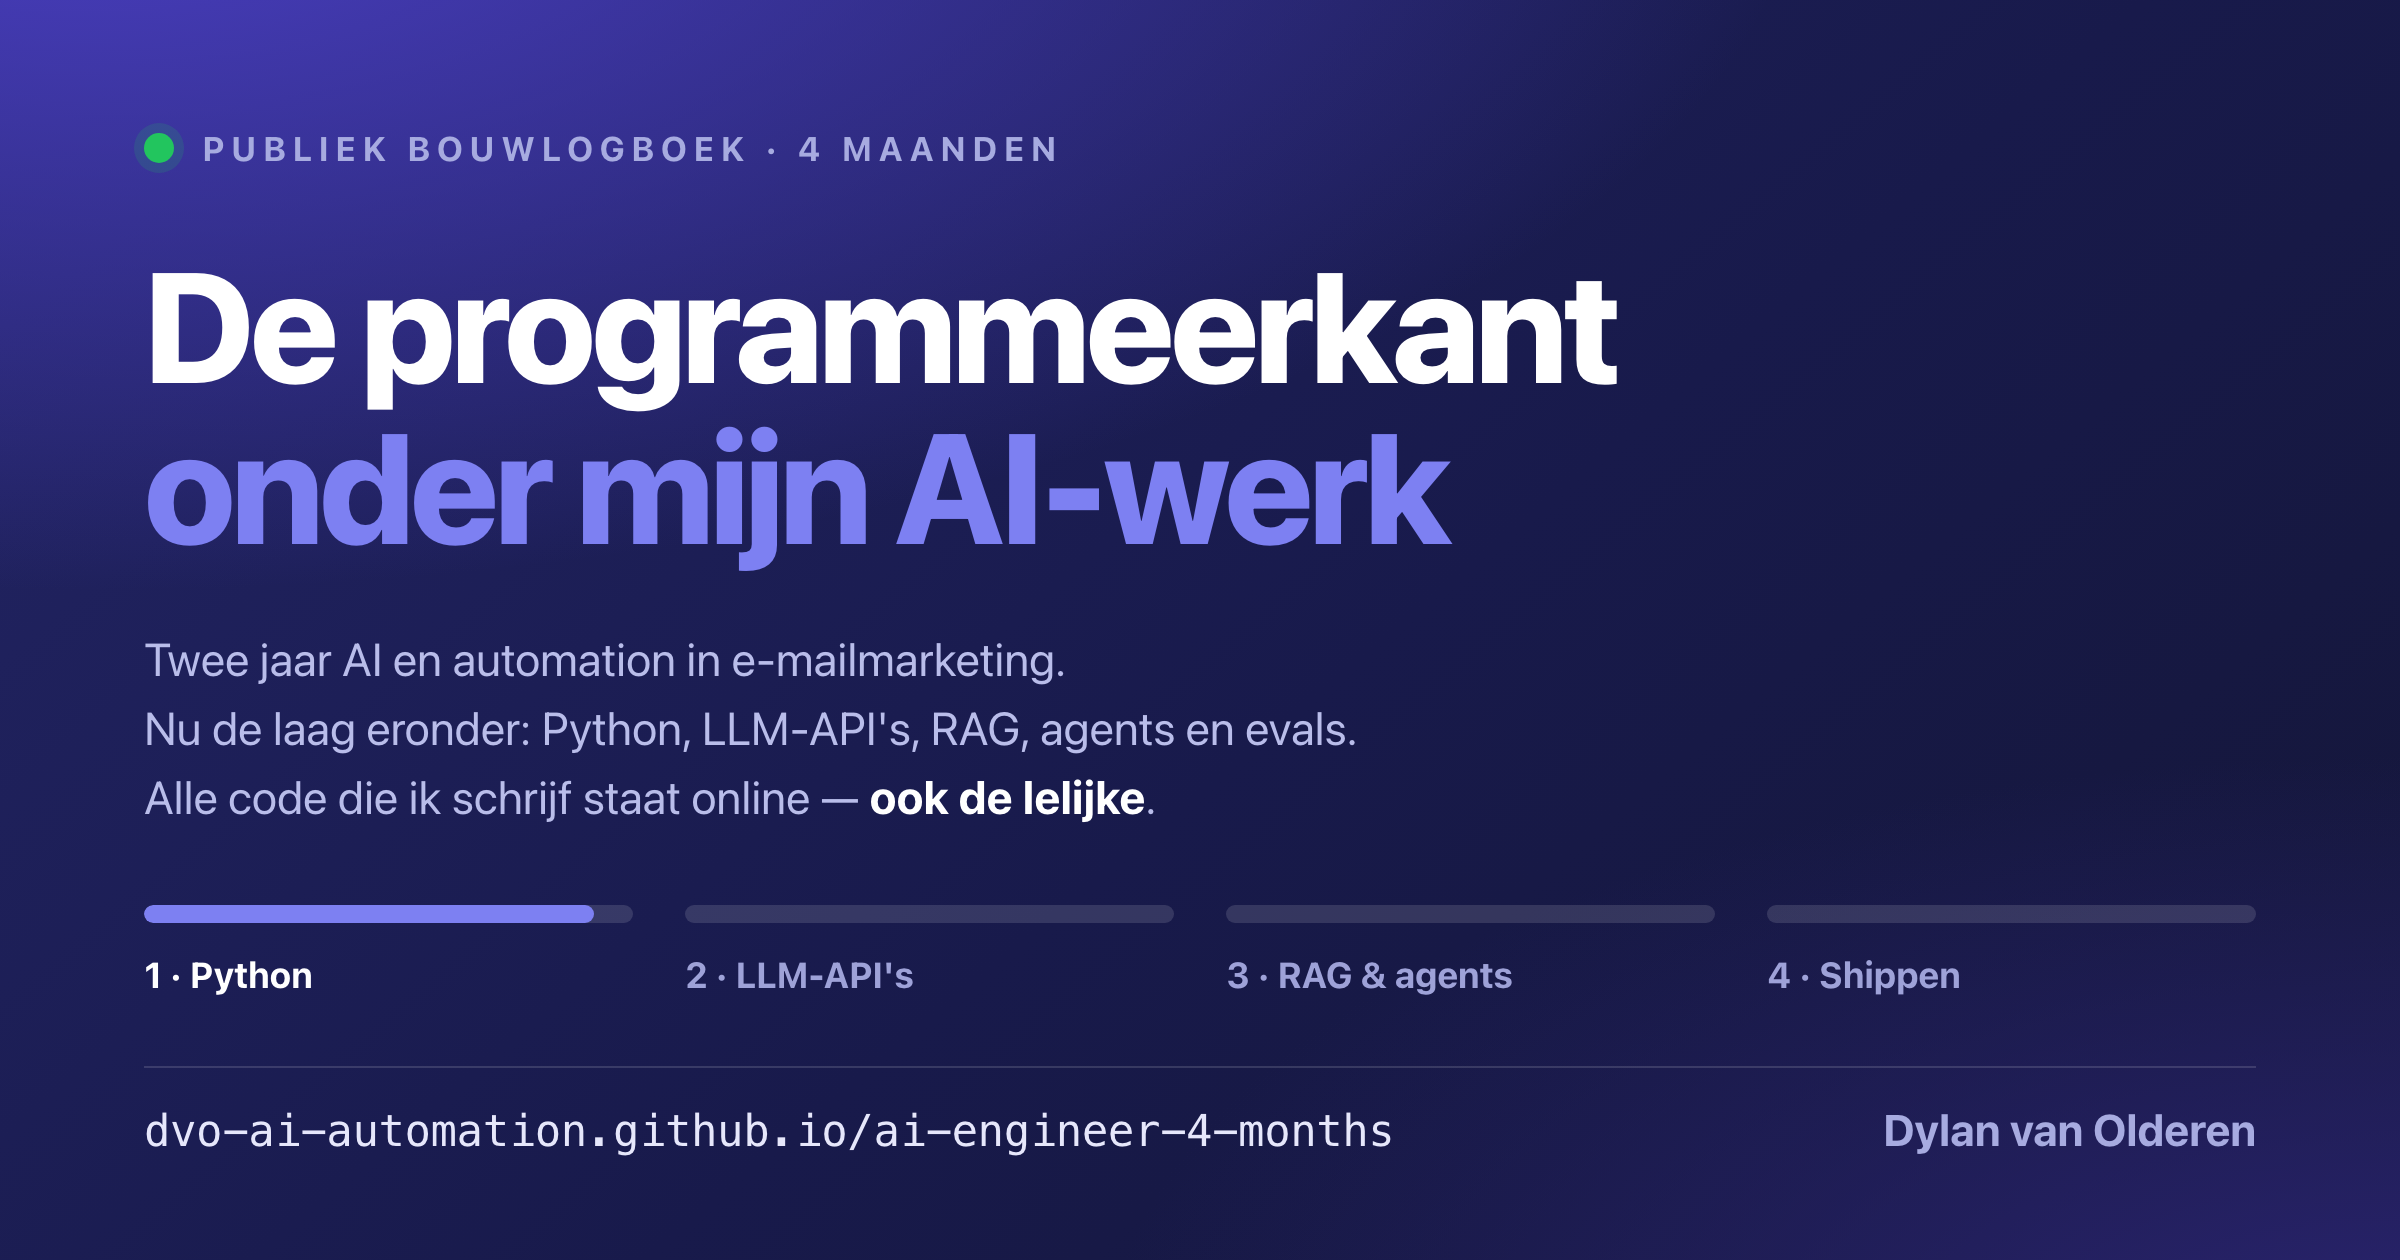
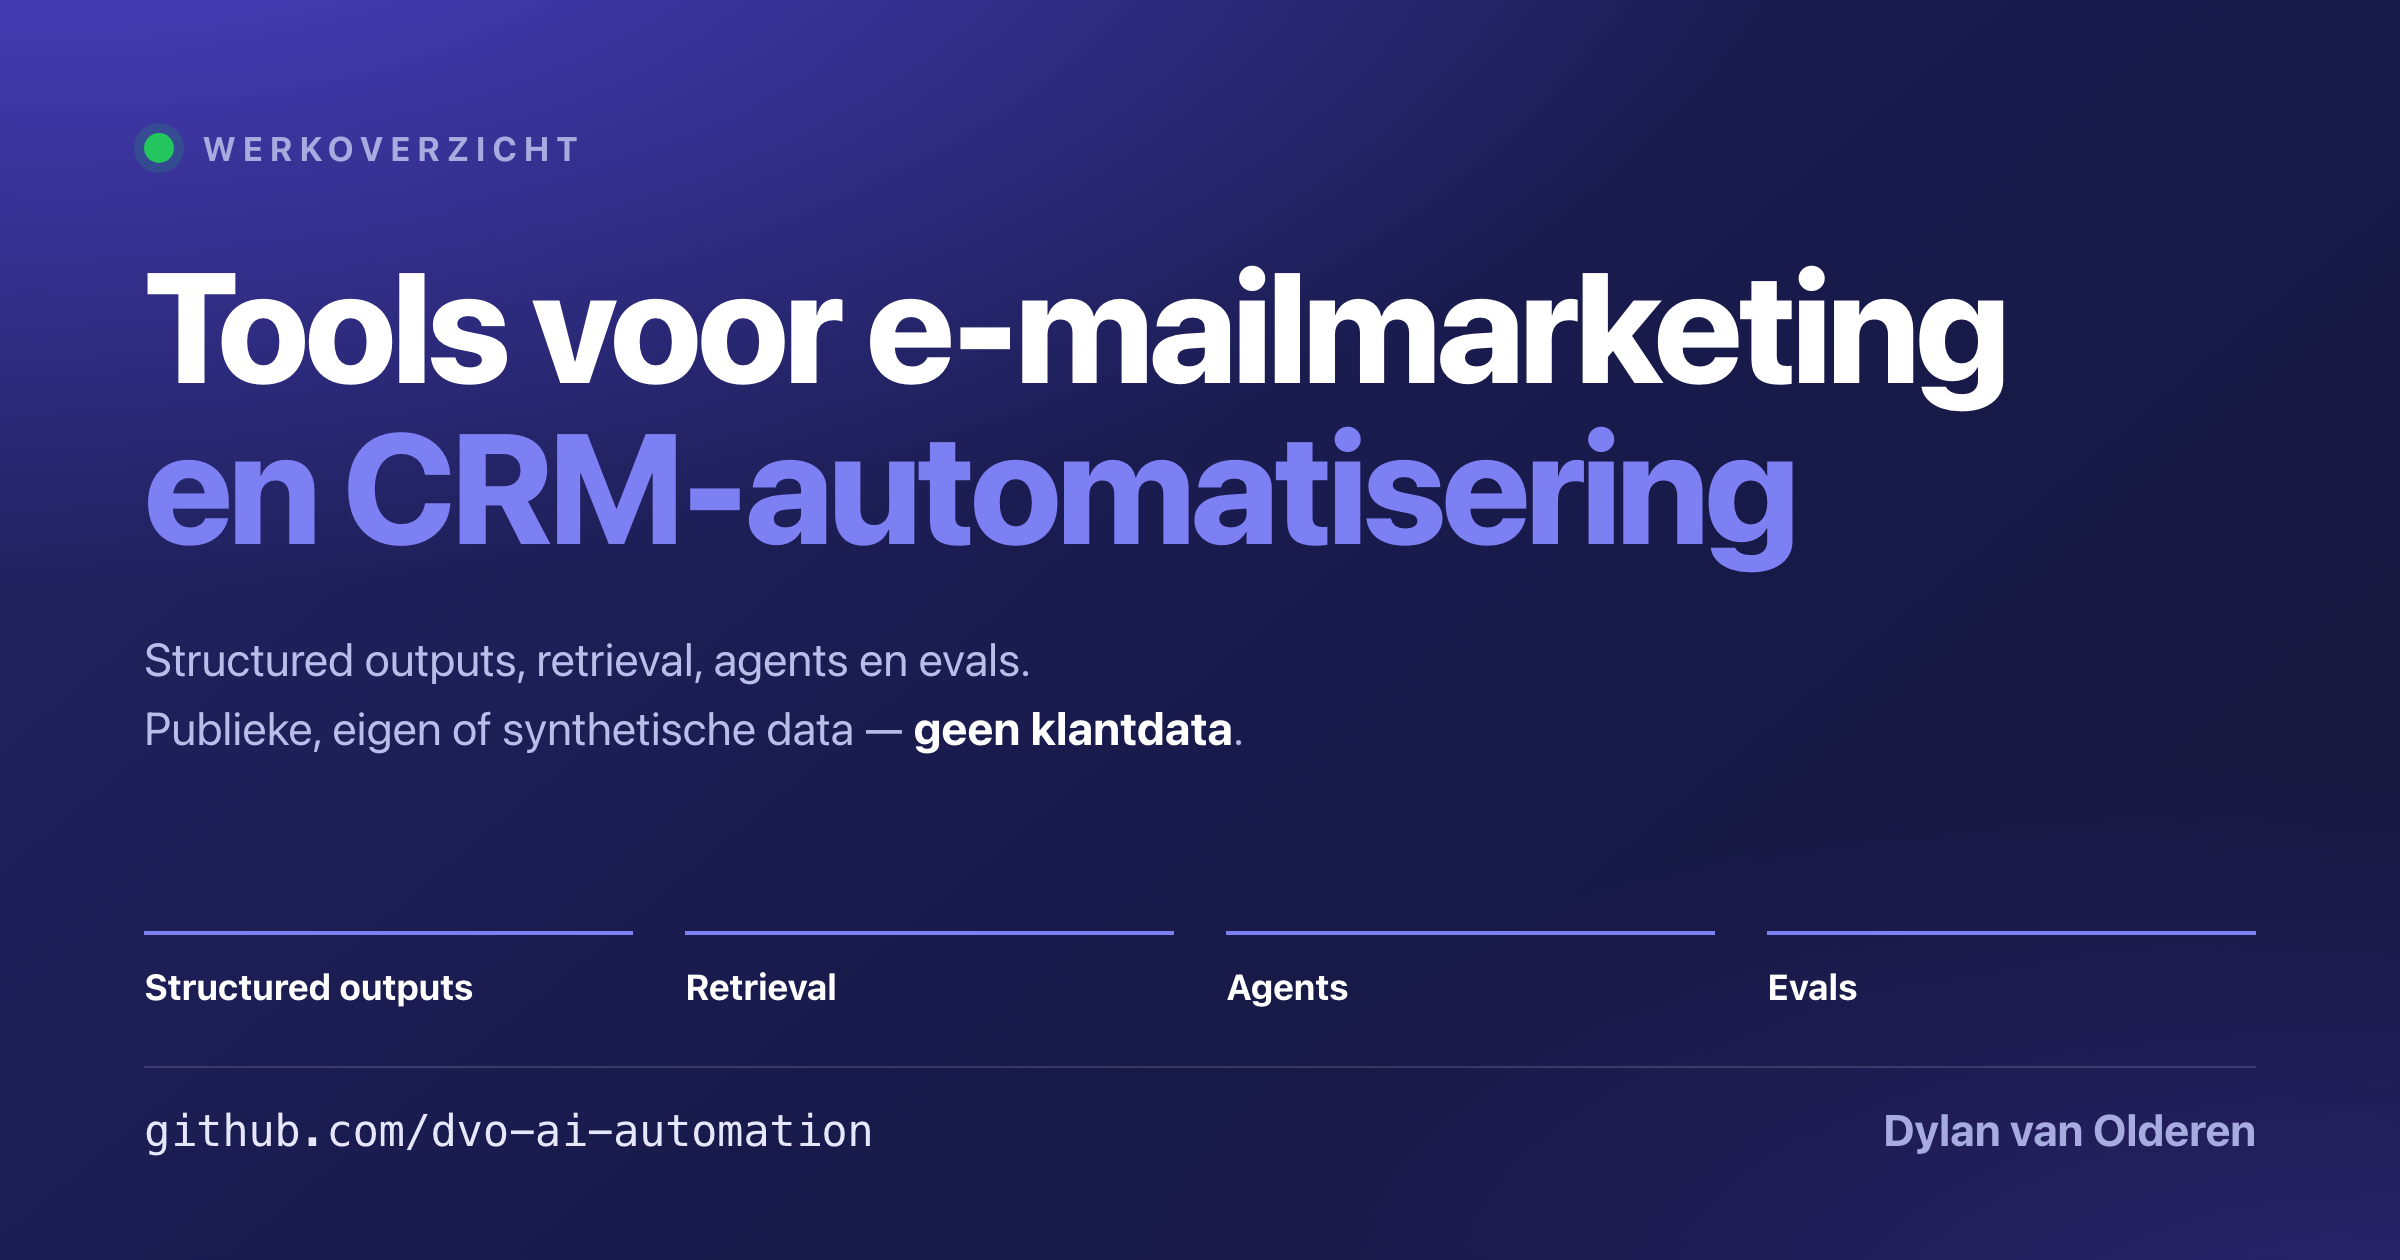
Dashboard: werkoverzicht in plaats van leerpad, og opnieuw gebouwd

diff --git a/docs/og-source.html b/docs/og-source.html
@@ -21,10 +21,10 @@ h1{margin-top:38px;font-size:78px;line-height:1.03;font-weight:800;letter-spacin
 h1 .acc{color:#7d80f2}
 .sub{margin-top:30px;font-size:23px;line-height:1.5;color:#b9bdea;font-weight:400}
 .sub b{color:#fff;font-weight:700}
-.bars{position:absolute;left:72px;right:72px;bottom:132px;display:grid;grid-template-columns:repeat(4,1fr);gap:26px}
+.bars{position:absolute;left:72px;right:72px;bottom:126px;display:grid;grid-template-columns:repeat(4,1fr);gap:26px}
 .bar .track{height:9px;border-radius:99px;background:rgba(255,255,255,.13);overflow:hidden}
 .bar .fill{height:100%;border-radius:99px;background:#7d80f2}
-.bar .lbl{margin-top:15px;font-size:18px;font-weight:700;color:#9ea2d8}
+.bar .lbl{font-size:18px;font-weight:700;color:#9ea2d8;border-top:2px solid #7d80f2;padding-top:15px}
 .bar.on .lbl{color:#fff}
 .rule{position:absolute;left:72px;right:72px;bottom:96px;height:1px;background:rgba(255,255,255,.14)}
 .foot{position:absolute;left:72px;right:72px;bottom:52px;display:flex;justify-content:space-between;align-items:baseline}
@@ -33,21 +33,20 @@ h1 .acc{color:#7d80f2}
 </style></head><body>
 <div class="bg"></div>
 <div class="pad">
-  <div class="eyebrow"><span class="dot"></span>Publiek bouwlogboek · 4 maanden</div>
-  <h1>De programmeerkant<br><span class="acc">onder mijn AI-werk</span></h1>
-  <div class="sub">Twee jaar AI en automation in e-mailmarketing.<br>
-  Nu de laag eronder: Python, LLM-API&#39;s, RAG, agents en evals.<br>
-  Alle code die ik schrijf staat online — <b>ook de lelijke</b>.</div>
+  <div class="eyebrow"><span class="dot"></span>Werkoverzicht</div>
+  <h1>Tools voor e-mailmarketing<br><span class="acc">en CRM-automatisering</span></h1>
+  <div class="sub">Structured outputs, retrieval, agents en evals.<br>
+  Publieke, eigen of synthetische data — <b>geen klantdata</b>.</div>
 </div>
 <div class="bars">
-  <div class="bar on"><div class="track"><div class="fill" style="width:92%"></div></div><div class="lbl">1 · Python</div></div>
-  <div class="bar"><div class="track"><div class="fill" style="width:0%"></div></div><div class="lbl">2 · LLM-API's</div></div>
-  <div class="bar"><div class="track"><div class="fill" style="width:0%"></div></div><div class="lbl">3 · RAG &amp; agents</div></div>
-  <div class="bar"><div class="track"><div class="fill" style="width:0%"></div></div><div class="lbl">4 · Shippen</div></div>
+  <div class="bar on"><div class="lbl">Structured outputs</div></div>
+  <div class="bar on"><div class="lbl">Retrieval</div></div>
+  <div class="bar on"><div class="lbl">Agents</div></div>
+  <div class="bar on"><div class="lbl">Evals</div></div>
 </div>
 <div class="rule"></div>
 <div class="foot">
-  <span class="url">dvo-ai-automation.github.io/ai-engineer-4-months</span>
+  <span class="url">github.com/dvo-ai-automation</span>
   <span class="who">Dylan van Olderen</span>
 </div>
 </body></html>

diff --git a/docs/index.html b/docs/index.html
@@ -3,16 +3,16 @@
 <head>
 <meta charset="utf-8">
 <meta name="viewport" content="width=device-width,initial-scale=1">
-<title>Leerpad: de programmeerkant onder mijn AI-werk</title>
-<meta name="description" content="Interactief leerpad-dashboard: vier maanden de programmeerkant onder mijn AI-werk in e-mailmarketing. Voortgang per skill, bouwopdrachten, valkuilen en mijlpalen.">
-<meta property="og:title" content="Leerpad: de programmeerkant onder mijn AI-werk">
-<meta property="og:description" content="Interactief leerpad-dashboard: vier maanden verdieping naast mijn AI- en automationwerk in e-mailmarketing.">
+<title>Werkoverzicht</title>
+<meta name="description" content="Werkoverzicht: de tools die ik bouw voor e-mailmarketing en CRM-automatisering, per onderwerp, met de bouwopdrachten en de postkalender.">
+<meta property="og:title" content="Werkoverzicht">
+<meta property="og:description" content="De tools die ik bouw voor e-mailmarketing en CRM-automatisering: prompting en structured outputs, retrieval, agents en evals.">
 <meta property="og:type" content="website">
 <meta property="og:url" content="https://dvo-ai-automation.github.io/ai-engineer-4-months/">
 <meta property="og:image" content="https://dvo-ai-automation.github.io/ai-engineer-4-months/og.png">
 <meta property="og:image:width" content="2400">
 <meta property="og:image:height" content="1260">
-<meta property="og:image:alt" content="De programmeerkant onder mijn AI-werk. Publiek leerlogboek, vier maanden.">
+<meta property="og:image:alt" content="Werkoverzicht: tools voor e-mailmarketing en CRM-automatisering.">
 <meta property="og:locale" content="nl_NL">
 <meta name="twitter:card" content="summary_large_image">
 <style>
@@ -255,9 +255,9 @@ section.tab.active{display:block}
 <div class="wrap">
 
   <div class="hdr">
-    <div class="eyebrow">Leerpad-dashboard</div>
-    <h1>De programmeerkant onder mijn AI-werk</h1>
-    <div class="sub">Vier maanden verdieping naast twee jaar AI- en automationwerk in e-mailmarketing. De structuur komt uit een artikel van @free_ai_guides (7 juli 2026); de bouwopdrachten van Maand 2 t/m 4 zijn eigen werk. Zie het tabblad Eerlijk.</div>
+    <div class="eyebrow">Werkoverzicht</div>
+    <h1>Tools voor e-mailmarketing en CRM-automatisering</h1>
+    <div class="sub">Wat ik bouw, per onderwerp: prompting en structured outputs, retrieval, agents en evals. Elke build draait op publieke, eigen of synthetische data — geen klantdata. Herkomst van de structuur en van de bouwopdrachten: zie het tabblad Eerlijk.</div>
     <div class="meta">
       <span><b>Start</b> 30 juli 2026</span>
       <span><b>Einde</b> 18 november 2026 (16 weken)</span>
